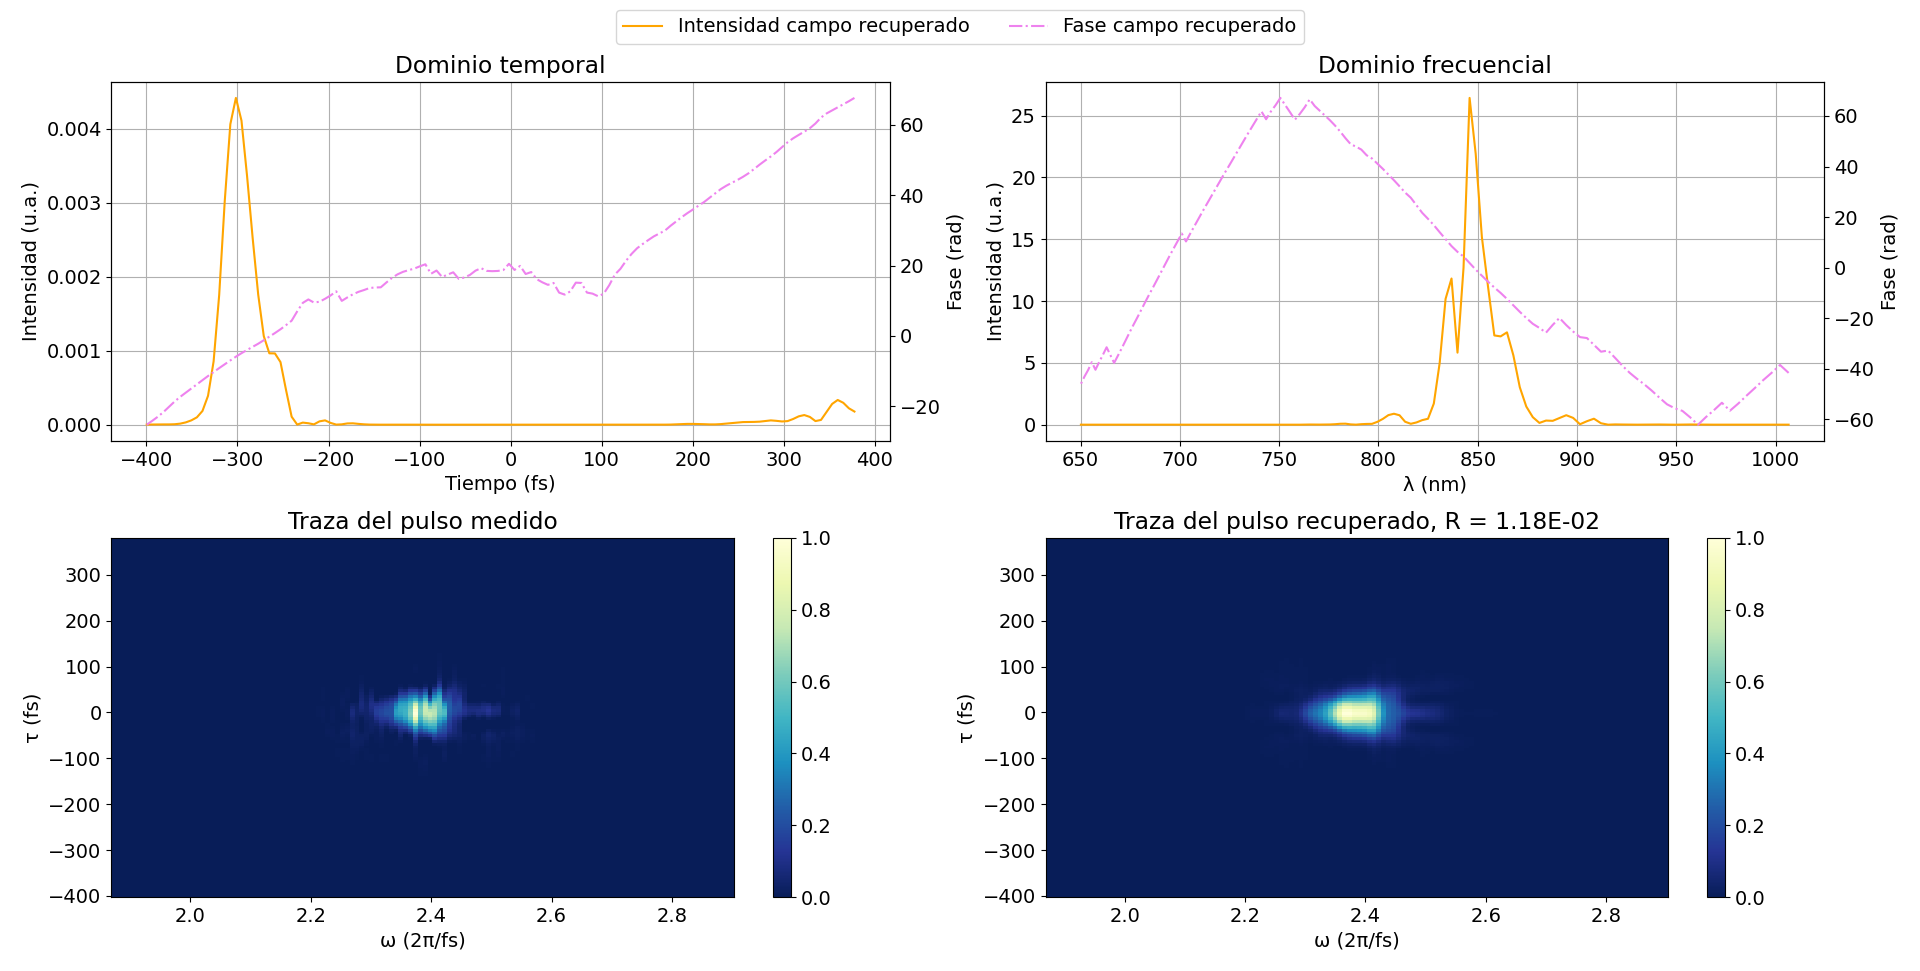
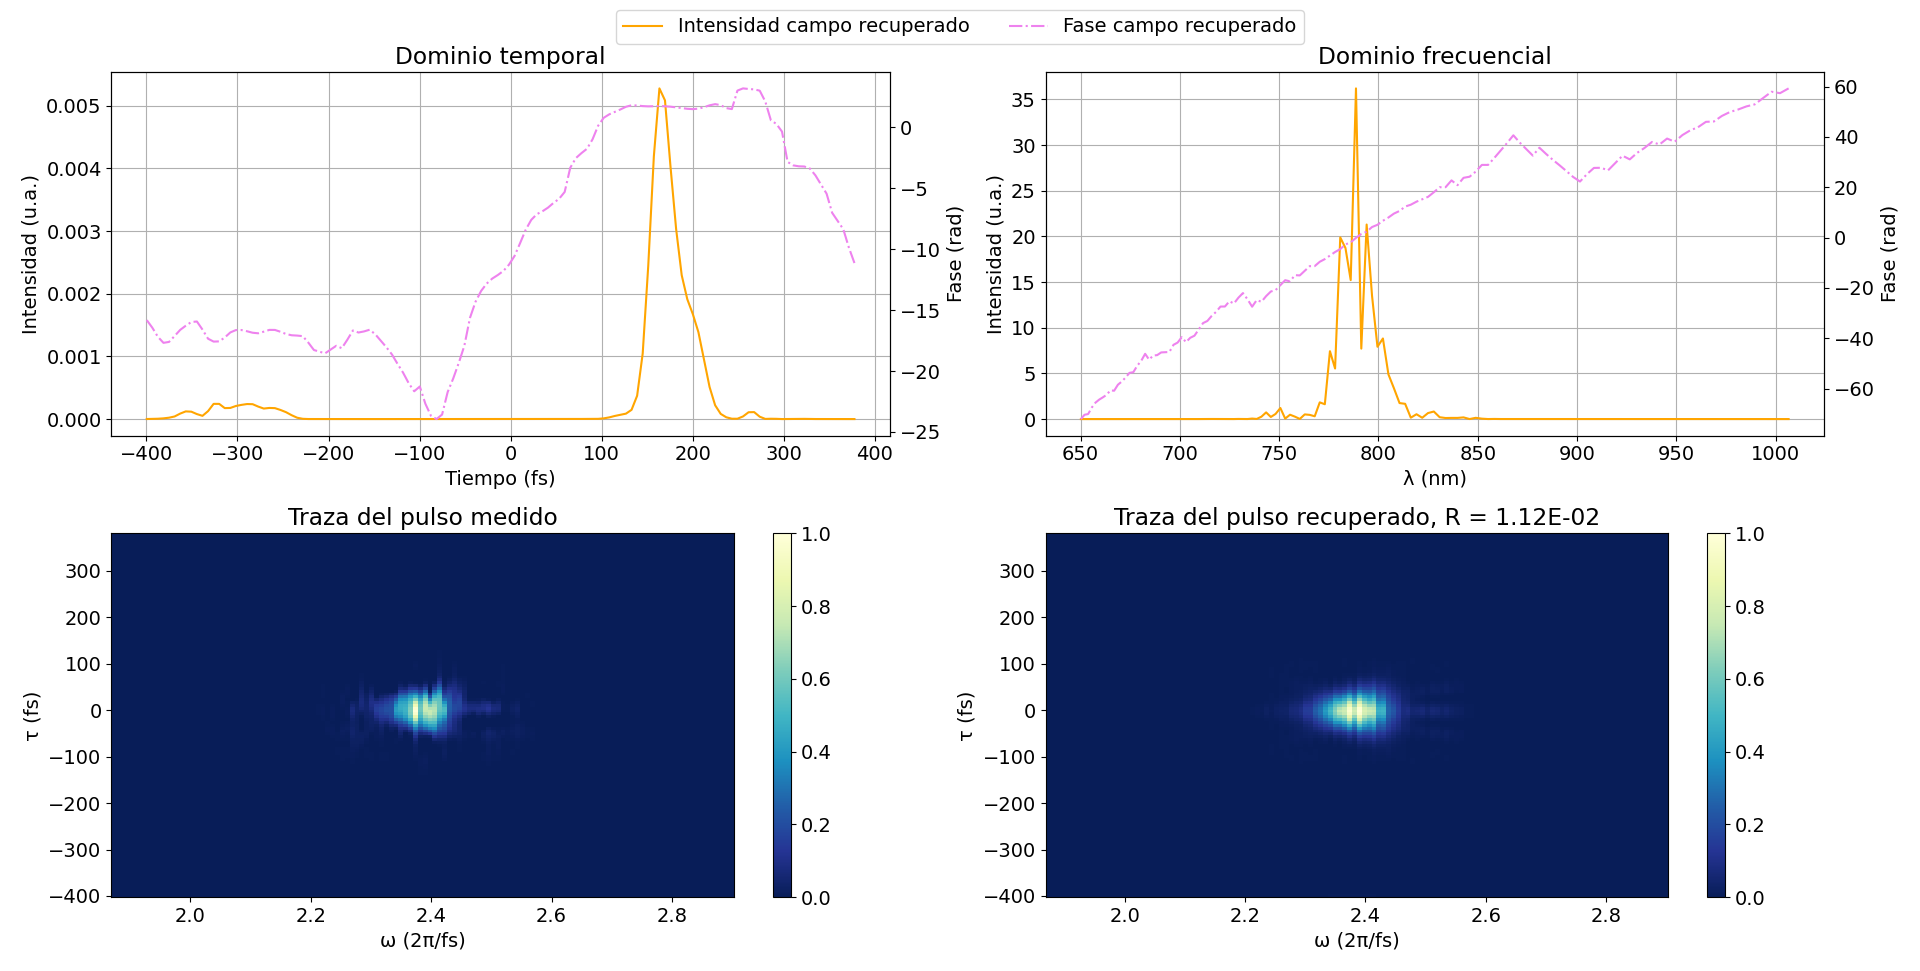
Corrección centrado en frecuencias

diff --git a/medidas_experimentales/recuperacion_medidas.py b/medidas_experimentales/recuperacion_medidas.py
@@ -14,7 +14,7 @@ from core import *
 
 plt.rcParams.update({'font.size': 14}) # Tamaño de la fuente del plot
 
-def plot_resultado_NN(campo, T_medido):
+def plot_resultado_NN(campo, T_medido, λ0):
     fig, ax = plt.subplots(2,2)
 
     twin_ax00 = ax[0][0].twinx()
@@ -40,8 +40,8 @@ def plot_resultado_NN(campo, T_medido):
     ax[0][0].set_title("Dominio temporal")
     ax[0][0].grid()
 
-    ax[0][1].plot(2 * np.pi * 300 / ω, I_espectral_solucion, color='orange', label='Intensidad espectral recuperada')
-    twin_ax01.plot(2 * np.pi * 300 / ω, fase_espectro_solucion, '-.', color='violet')
+    ax[0][1].plot(2 * np.pi * 300 / (2 * np.pi * 300 / λ0 + ω), I_espectral_solucion, color='orange', label='Intensidad espectral recuperada')
+    twin_ax01.plot(2 * np.pi * 300 / (2 * np.pi * 300 / λ0 + ω), fase_espectro_solucion, '-.', color='violet')
     ax[0][1].plot(np.nan, '-.', label='Fase espectral recuperada', color='violet')
     ax[0][1].set_xlabel("λ (nm)")
     ax[0][1].set_ylabel("Intensidad (u.a.)")
@@ -62,13 +62,13 @@ def plot_resultado_NN(campo, T_medido):
     R = np.sqrt(r / (N * N * T_medido.max()**2))
 
 
-    im0 = ax[1][0].pcolormesh(ω, τ, T_medido_normalizado, cmap='YlGnBu_r')
+    im0 = ax[1][0].pcolormesh(2 * np.pi * 300 / λ0 + ω, τ, T_medido_normalizado, cmap='YlGnBu_r')
     fig.colorbar(im0, ax=ax[1][0])
     ax[1][0].set_xlabel("ω (2π/fs)")
     ax[1][0].set_ylabel("τ (fs)")
     ax[1][0].set_title("Traza del pulso medido")
 
-    im1 = ax[1][1].pcolormesh(ω, τ, T_recuperado_normalizado[int((N-1)/2):int((N-1)/2) + N], cmap='YlGnBu_r')
+    im1 = ax[1][1].pcolormesh(2 * np.pi * 300 / λ0 + ω, τ, T_recuperado_normalizado[int((N-1)/2):int((N-1)/2) + N], cmap='YlGnBu_r')
     fig.colorbar(im1, ax=ax[1][1])
     ax[1][1].set_xlabel("ω (2π/fs)")
     ax[1][1].set_ylabel("τ (fs)")
@@ -100,8 +100,6 @@ if __name__ == '__main__':
 
     λ0 = 790
     ω0 = 2 * np.pi * 300 / λ0
-
-    ω += ω0
 
     Δω = ω[1] - ω[0]
     Δτ = τ[1] - τ[0]
@@ -152,8 +150,8 @@ if __name__ == '__main__':
     pulso_900mA_NN = campos_concat_pred[0][:N] + 1j * campos_concat_pred[0][N:]
     pulso_2100mA_NN = campos_concat_pred[1][:N] + 1j * campos_concat_pred[1][N:]
 
-    plot_resultado_NN(pulso_900mA_NN, T_900mA)
-    plot_resultado_NN(pulso_2100mA_NN, T_2100mA)
+    plot_resultado_NN(pulso_900mA_NN, T_900mA, λ0)
+    plot_resultado_NN(pulso_2100mA_NN, T_2100mA, λ0)
 
     plt.show()
 
@@ -177,12 +175,12 @@ if __name__ == '__main__':
 
 
     ret_GPA_900mA = GPA(τ, Δτ, ω, Δω, T_900mA)
-    campo_GPA_900mA, espectro_GPA_900mA = ret_GPA_900mA.recuperacion(pulso_candidato, 1e-10, max_iter=200)
-    ret_GPA_900mA.plot()
+    campo_GPA_900mA, espectro_GPA_900mA = ret_GPA_900mA.recuperacion(pulso_candidato, 1e-10, max_iter=500)
+    ret_GPA_900mA.plot(λ0)
 
     ret_PCGPA_900mA = PCGPA(τ, Δτ, ω, Δω, T_900mA)
     campo_PCGPA_900mA, espectro_PCGPA_900mA = ret_PCGPA_900mA.recuperacion(pulso_candidato, 1e-10, max_iter=200)
-    ret_PCGPA_900mA.plot()
+    ret_PCGPA_900mA.plot(λ0)
 
     print(f"Anchura temporal pulso 900mA predicha por el método GPA : {Δτ * compute_fwhm(np.abs(campo_GPA_900mA)**2):.2f} fs")
     print(f"Anchura temporal pulso 900mA predicha por el método PCGPA : {Δτ * compute_fwhm(np.abs(campo_PCGPA_900mA)**2):.2f} fs")
@@ -193,11 +191,11 @@ if __name__ == '__main__':
 
     ret_GPA_2100mA = GPA(τ, Δτ, ω, Δω, T_2100mA)
     campo_GPA_2100mA, espectro_GPA_2100mA = ret_GPA_2100mA.recuperacion(pulso_candidato, 1e-10, max_iter=200)
-    ret_GPA_2100mA.plot()
+    ret_GPA_2100mA.plot(λ0)
 
     ret_PCGPA_2100mA = PCGPA(τ, Δτ, ω, Δω, T_2100mA)
     campo_PCGPA_2100mA, espectro_PCGPA_2100mA = ret_PCGPA_2100mA.recuperacion(pulso_candidato, 1e-10, max_iter=200)
-    ret_PCGPA_2100mA.plot()
+    ret_PCGPA_2100mA.plot(λ0)
 
     print(f"Anchura temporal pulso 2100mA predicha por el método GPA : {Δτ * compute_fwhm(np.abs(campo_GPA_2100mA)**2):.2f} fs")
     print(f"Anchura temporal pulso 2100mA predicha por el método PCGPA : {Δτ * compute_fwhm(np.abs(campo_PCGPA_2100mA)**2):.2f} fs")

diff --git a/core/recuperacion_experimental.py b/core/recuperacion_experimental.py
@@ -116,7 +116,7 @@ class retrieverExpBase():
         """
         self.R = np.sqrt(self.r / (self.M * self.N * self.Tmn_medido_max_cuadrado))
 
-    def plot(self):
+    def plot(self, λ0):
         """
         Representa las intensidades temporales y espectrales tanto del pulso original como del pulso solución,
         además de sus correspondientes trazas.
@@ -150,8 +150,8 @@ class retrieverExpBase():
         self.ax[0][0].set_title("Dominio temporal")
         self.ax[0][0].grid()
 
-        self.ax[0][1].plot(2 * np.pi * 300 / self.ω, self.I_espectral_solucion, color='orange', label='Intensidad espectral recuperada')
-        twin_ax01.plot(2 * np.pi * 300 / self.ω, self.fase_espectro_solucion, '-.', color='violet')
+        self.ax[0][1].plot(2 * np.pi * 300 / (2 * np.pi * 300 / λ0 + self.ω), self.I_espectral_solucion, color='orange', label='Intensidad espectral recuperada')
+        twin_ax01.plot(2 * np.pi * 300 / (2 * np.pi * 300 / λ0 + self.ω), self.fase_espectro_solucion, '-.', color='violet')
         self.ax[0][1].plot(np.nan, '-.', label='Fase espectral recuperada', color='violet')
         self.ax[0][1].set_xlabel("λ (nm)")
         self.ax[0][1].set_ylabel("Intensidad (u.a.)")
@@ -171,13 +171,13 @@ class retrieverExpBase():
 
         self.Tmn_recuperado_normalizado = self.Tmn / np.max(self.Tmn)
 
-        self.im0 = self.ax[1][0].pcolormesh(self.ω, self.t, self.Tmn_medido_normalizado, cmap='YlGnBu_r')
+        self.im0 = self.ax[1][0].pcolormesh(2 * np.pi * 300 / λ0 + self.ω, self.t, self.Tmn_medido_normalizado, cmap='YlGnBu_r')
         self.fig.colorbar(self.im0, ax=self.ax[1][0])
         self.ax[1][0].set_xlabel("ω (2π/fs)")
         self.ax[1][0].set_ylabel("τ (fs)")
         self.ax[1][0].set_title("Traza del pulso medido")
 
-        self.im1 = self.ax[1][1].pcolormesh(self.ω, self.t, self.Tmn_recuperado_normalizado, cmap='YlGnBu_r')
+        self.im1 = self.ax[1][1].pcolormesh(2 * np.pi * 300 / λ0 + self.ω, self.t, self.Tmn_recuperado_normalizado, cmap='YlGnBu_r')
         self.fig.colorbar(self.im1, ax=self.ax[1][1])
         self.ax[1][1].set_xlabel("ω (2π/fs)")
         self.ax[1][1].set_ylabel("τ (fs)")
